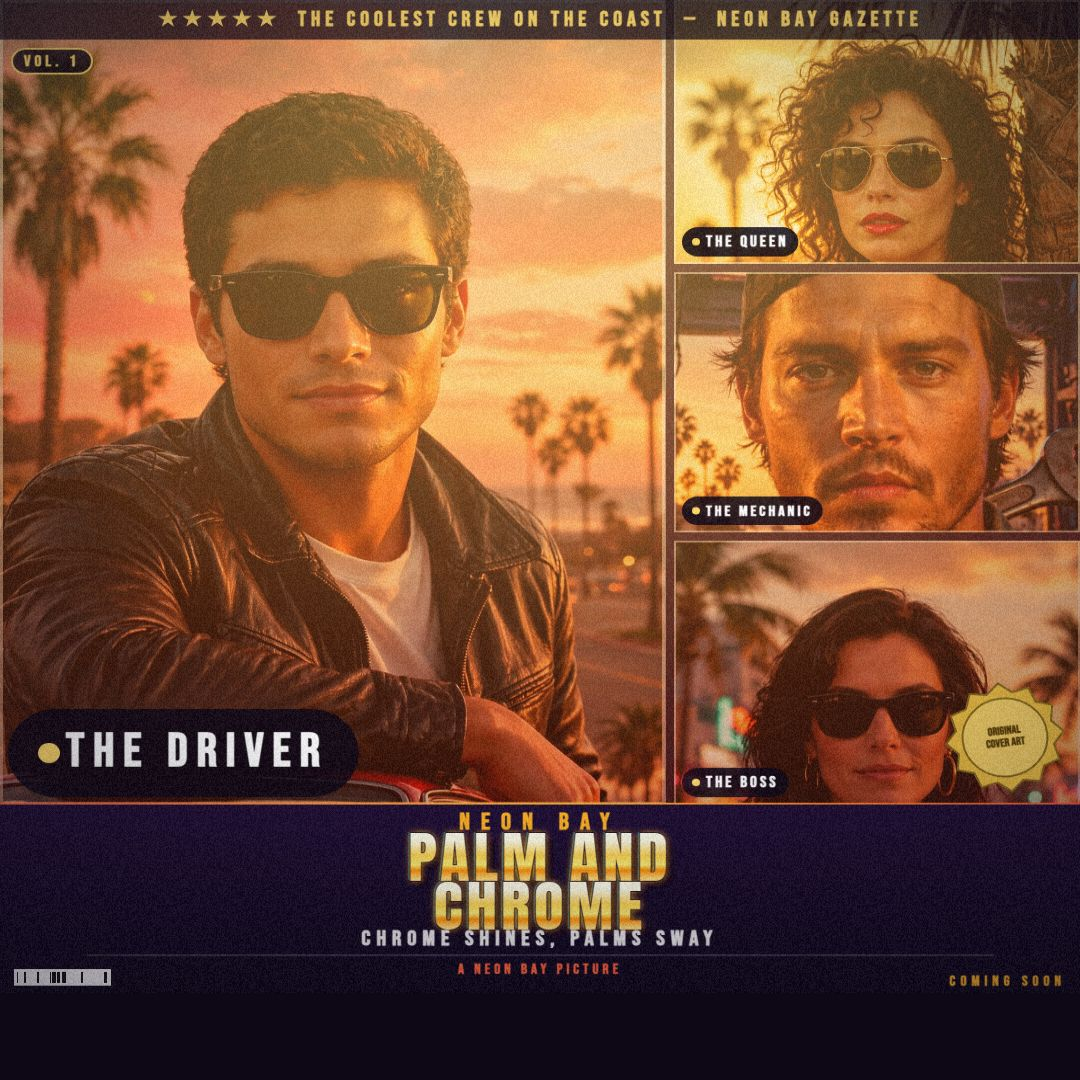
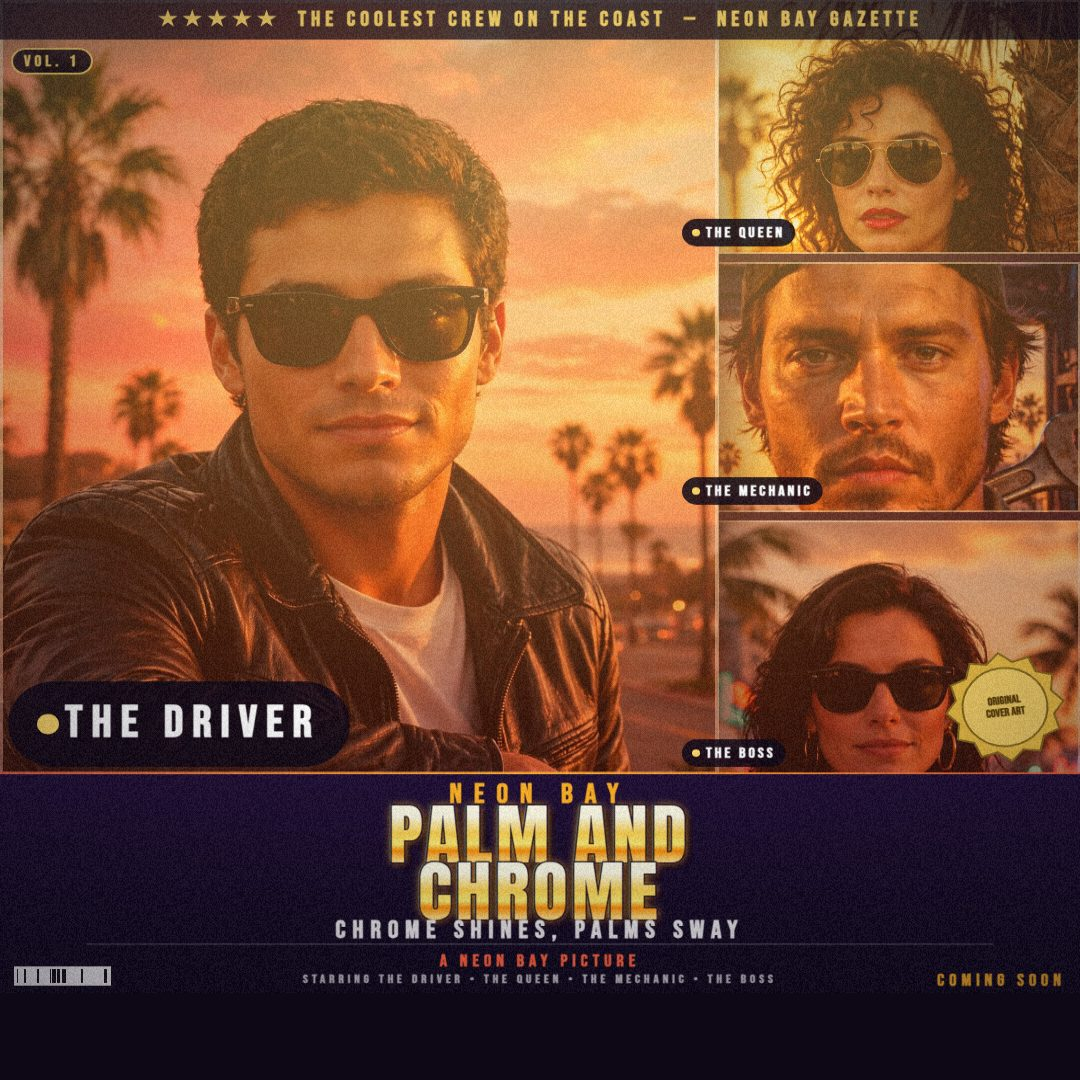
Neon Bay Cover Studio round 6: face-centre cast crops, de-hazed sunset, calmer neon skin, credits line, pop-out hero

diff --git a/app/src/cover.js b/app/src/cover.js
@@ -26,6 +26,8 @@
 //     gradeStrength: number,          // 0.5 .. 1.5, multiplies grade alphas
 //     headline: string, tagline: string, footer: string, kicker: string,
 //     billing: string,                // billing strip, e.g. "A NEON BAY PRODUCTION"
+//     credits: string,                // credits line under the billing strip (round 6)
+//     popout: boolean,                // hero3: hero card breaks the grid (round 6)
 //     letteringStyle: 'single' | 'stacked' | 'chrome',
 //     skylineFrame: boolean,          // sunset skyline strip under the photos
 //     halftone: boolean,              // print-dot texture over the photos
@@ -64,12 +66,38 @@ export const SAMPLE_FOCUS = {
   boulevard: { fx: 0.5, fy: 0.3 },
 };
 
+// Round 6: face-centre focus for the WIDE Cast panels only. A Cast panel
+// is ~1.8:1, so it shows only a ~0.29-tall slice of a tall portrait —
+// SAMPLE_FOCUS (tuned for the tall hero/poster windows, where hair AND
+// chin fit) cuts faces there: measured on the actual portraits
+// (eyes/chin in fy: driver 0.237/0.355, boss 0.516/0.730, mechanic
+// 0.305/0.495, queen 0.345/0.500, pier 0.178/0.365, boulevard
+// 0.210/0.298), the round-5 cast framing cut the driver's mouth and
+// chin entirely and nicked the boss's and mechanic's chins. These fy
+// values sit on the face centre (eyes->chin midpoint, nudged up a touch
+// so the chin keeps headroom from the panel bottom and the role-tag
+// chip): the hair crops at the panel edge — normal poster cropping —
+// and eyes->chin stays whole in every cast panel.
+export const CAST_FOCUS = {
+  driver: { fx: 0.5, fy: 0.28 },
+  boss: { fx: 0.5, fy: 0.58 },
+  mechanic: { fx: 0.5, fy: 0.37 },
+  queen: { fx: 0.5, fy: 0.4 },
+  pier: { fx: 0.5, fy: 0.3 },
+  boulevard: { fx: 0.5, fy: 0.27 },
+};
+
 // Height of the headline block, as a fraction of the cover height. Round 5
 // raises both: the panel band 0.15 -> 0.19 so the billing strip, barcode
 // and COMING SOON fit without crowding, and the Movie Poster band 0.21 ->
 // 0.36 so the headline block itself (kicker + two-line chrome headline +
 // tagline + billing + footer) occupies ~36% of the poster height.
-const BAND = 0.19;
+// Round 6 raises the panel band 0.19 -> 0.22: the round-5 band left a
+// wide dark gap between the billing strip and the barcode/COMING SOON
+// row (worst on the 16:9 poster), and the extra ~3% buys a credits line
+// under the billing strip without crowding the tagline. The poster band
+// stays 0.36 — it already reads full.
+const BAND = 0.22;
 const POSTER_BAND = 0.36;
 
 // Height of the sunset skyline strip, as a fraction of the cover height.
@@ -214,9 +242,13 @@ export function panelDefaults(layout) {
 export function castPanelDefaults(layout, cast) {
   const base = panelDefaults(layout);
   const names = Array.isArray(cast) && cast.length > 0 ? cast : CAST_SAMPLES;
+  // Round 6: the Cast grid's wide panels frame on the face centre
+  // (CAST_FOCUS); every other layout keeps the tall-window framing
+  // (SAMPLE_FOCUS), which round 5 verified visually there.
+  const focusTable = layout === 'cast' ? CAST_FOCUS : SAMPLE_FOCUS;
   return base.map((slot, i) => {
     const name = names[i % names.length];
-    const focus = SAMPLE_FOCUS[name] ?? { fx: 0.5, fy: 0.3 };
+    const focus = focusTable[name] ?? { fx: 0.5, fy: 0.3 };
     return { photo: i % names.length, zoom: slot.zoom, fx: focus.fx, fy: focus.fy };
   });
 }
@@ -274,18 +306,22 @@ export function applyPosterPreset(state, name) {
 // ---------------------------------------------------------------------------
 const GRADE_DEFS = {
   sunset: {
+    // Round 6: the top veil/overlay stops are thinned (0.20->0.15,
+    // 0.22->0.19, 0.26->0.21) and the glow moves in from the corner
+    // (glowX 0.08->0.15) — round 5 left the top-left panel hazy orange
+    // and the glow pooled in the corner instead of reading as horizon.
     stops: [
-      [0, 255, 150, 60, 0.2],
-      [0.45, 255, 90, 90, 0.22],
+      [0, 255, 150, 60, 0.15],
+      [0.45, 255, 90, 90, 0.19],
       [0.8, 215, 40, 130, 0.24],
       [1, 70, 20, 110, 0.28],
     ],
     overlay: [
-      [0, 255, 130, 60, 0.26],
+      [0, 255, 130, 60, 0.21],
       [1, 110, 30, 150, 0.26],
     ],
     glow: [255, 190, 100],
-    glowX: 0.08,
+    glowX: 0.15,
     glowY: 0.45,
     accentA: '#ff2e88', // magenta
     accentB: '#22d3ee', // cyan
@@ -293,14 +329,19 @@ const GRADE_DEFS = {
     sat: 1.22,
   },
   neon: {
+    // Round 6: the magenta end is thinned (veil bottom 0.26->0.18, mid
+    // 0.20->0.16; overlay bottom 0.27->0.20) and saturation eased
+    // 1.28->1.22 — round 5 left the queen's skin pink-magenta in the
+    // portrait poster. The neon still reads (cyan top, magenta base),
+    // the skin just stops tinting.
     stops: [
       [0, 34, 211, 238, 0.16],
-      [0.5, 120, 60, 255, 0.2],
-      [1, 255, 46, 136, 0.26],
+      [0.5, 120, 60, 255, 0.16],
+      [1, 255, 46, 136, 0.18],
     ],
     overlay: [
       [0, 40, 200, 230, 0.19],
-      [1, 255, 50, 140, 0.27],
+      [1, 255, 50, 140, 0.2],
     ],
     glow: [255, 80, 180],
     glowX: 0.84,
@@ -308,7 +349,7 @@ const GRADE_DEFS = {
     accentA: '#22d3ee',
     accentB: '#ff2e88',
     vignette: 0.6,
-    sat: 1.28,
+    sat: 1.22,
   },
   golden: {
     stops: [
@@ -401,7 +442,7 @@ function applyGrade(ctx, w, photoH, grade, strength) {
   const gy = photoH * grade.glowY;
   const glow = ctx.createRadialGradient(gx, gy, 0, gx, gy, Math.max(w, photoH) * 0.55);
   const [gr, gg, gb] = grade.glow;
-  glow.addColorStop(0, stopColor(gr, gg, gb, 0.35, strength));
+  glow.addColorStop(0, stopColor(gr, gg, gb, 0.3, strength));
   glow.addColorStop(1, stopColor(gr, gg, gb, 0, strength));
   ctx.fillStyle = glow;
   ctx.fillRect(0, 0, w, photoH);
@@ -660,6 +701,25 @@ function drawEmptyPanel(ctx, panel, label) {
   ctx.restore();
 }
 
+/** Pop-out hero (round 6): the hero photo re-drawn in a rect that
+ * overhangs its panel to the right, on a drop shadow, so the card reads
+ * as lifted in front of its neighbours. The photo itself is re-fit to
+ * the wider rect (same uniform-scale rule), and its own white frame
+ * stroke sells the card edge. */
+function drawPopoutHero(ctx, img, panel, slot, sat) {
+  const overhang = Math.max(14, Math.round(Math.min(panel.w, panel.h) * 0.08));
+  const big = { x: panel.x, y: panel.y, w: panel.w + overhang, h: panel.h };
+  ctx.save();
+  ctx.shadowColor = 'rgba(5, 2, 12, 0.65)';
+  ctx.shadowBlur = Math.max(10, Math.round(overhang * 0.8));
+  ctx.shadowOffsetX = Math.round(overhang * 0.35);
+  ctx.shadowOffsetY = Math.round(overhang * 0.4);
+  ctx.fillStyle = '#160a24';
+  ctx.fillRect(big.x, big.y, big.w, big.h);
+  ctx.restore();
+  drawPhotoInPanel(ctx, img, big, slot.zoom, slot.fx, slot.fy, sat);
+}
+
 // ---------------------------------------------------------------------------
 // Lettering: condensed headline, white fill, black outline, magenta/cyan
 // offset shadows, a soft neon glow. Round 3 adds the Stacked style: the
@@ -897,10 +957,10 @@ function drawTagline(ctx, text, bandY, bandH, width, yFrac) {
 }
 
 /** The billing strip: small spaced caps between two hairline rules. */
-function drawBillingStrip(ctx, text, bandY, bandH, width, accent) {
+function drawBillingStrip(ctx, text, bandY, bandH, width, accent, yFrac = 0.88) {
   const clean = (text || '').trim().toUpperCase();
   if (!clean) return;
-  const y = bandY + bandH * 0.88;
+  const y = bandY + bandH * yFrac;
   const size = fitCapsLine(ctx, clean, width * 0.84, Math.max(11, Math.round(bandH * 0.075)));
   ctx.save();
   ctx.strokeStyle = 'rgba(255, 255, 255, 0.35)';
@@ -919,6 +979,37 @@ function drawBillingStrip(ctx, text, bandY, bandH, width, accent) {
   ctx.textAlign = 'center';
   ctx.textBaseline = 'middle';
   ctx.fillStyle = accent;
+  ctx.fillText(clean, width / 2, y);
+  ctx.restore();
+}
+
+// ---------------------------------------------------------------------------
+// Credits line (round 6): a second small-caps line under the billing
+// strip — cast credits on the panel posters, a production credit
+// otherwise. It fills the dark gap round 5 left between the billing
+// strip and the barcode/COMING SOON row. Panel layouts only: the Movie
+// Poster band is already full (kicker + two-line chrome headline +
+// tagline + billing + footer), and a centred line there would collide
+// with the barcode on the left and COMING SOON on the right.
+// ---------------------------------------------------------------------------
+function drawCreditsLine(ctx, text, bandY, bandH, width) {
+  const clean = (text || '').trim().toUpperCase();
+  if (!clean) return;
+  // 0.94 of the band: below the billing strip (0.86), above the footer
+  // row — centred, so it clears the barcode (left) and COMING SOON
+  // (right) at every export size.
+  const y = bandY + bandH * 0.94;
+  const size = fitCapsLine(ctx, clean, width * 0.84, Math.max(11, Math.round(bandH * 0.055)));
+  ctx.save();
+  ctx.font = `600 ${size}px "Bebas Neue", "Arial Narrow", sans-serif`;
+  try {
+    ctx.letterSpacing = `${Math.round(size * 0.28)}px`;
+  } catch {
+    // older canvas: letterSpacing is ignored, text still draws
+  }
+  ctx.textAlign = 'center';
+  ctx.textBaseline = 'middle';
+  ctx.fillStyle = 'rgba(255, 255, 255, 0.72)';
   ctx.fillText(clean, width / 2, y);
   ctx.restore();
 }
@@ -1135,9 +1226,23 @@ export function renderCover(canvas, state) {
     }
   }
 
+  // Round 6 pop-out hero (hero3 only, state.popout): the hero panel is
+  // redrawn last, breaking the grid — its photo overhangs the right-hand
+  // panels by one overhang and carries a drop shadow, so the hero reads
+  // as a card lifted in front of the poster instead of one more tile.
+  // It is a grid-break, not a true cut-out (that needs a segmentation
+  // mask, which a static offline app has no way to make): the figure
+  // stays inside its photo, the CARD breaks out. The role tags are drawn
+  // later (furniture pass), so no chip is ever covered, and the overhang
+  // never extends downward into the headline band.
+  if (state.popout && state.layout === 'hero3' && count > 0) {
+    const slot = state.panels[0] ?? { photo: 0, zoom: 1, fx: 0.5, fy: 0.5 };
+    const img = state.photos[slot.photo] ?? null;
+    if (img) drawPopoutHero(ctx, img, panels[0], slot, grade.sat);
+  }
+
   // Grade over the photo area: veil + overlay + sun glow.
   applyGrade(ctx, w, photoH, grade, strength);
-
   // Print-dot halftone over the photos, when the user asked for it.
   if (state.halftone) drawHalftoneTexture(ctx, w, photoH);
 
@@ -1178,7 +1283,10 @@ export function renderCover(canvas, state) {
   drawKicker(ctx, state.kicker, bandY, bandH, w, grade.accentA, isPoster);
   drawHeadline(ctx, state.headline, bandY, bandH, w, grade.accentA, grade.accentB, state.letteringStyle, isPoster);
   drawTagline(ctx, state.tagline, bandY, bandH, w, isPoster ? 0.78 : 0.72);
-  drawBillingStrip(ctx, state.billing, bandY, bandH, w, grade.accentB);
+  drawBillingStrip(ctx, state.billing, bandY, bandH, w, grade.accentB, isPoster ? 0.88 : 0.86);
+  // Round 6: the credits line fills the panel band's dark gap (see
+  // drawCreditsLine); the poster band skips it — it is already full.
+  if (!isPoster) drawCreditsLine(ctx, state.credits, bandY, bandH, w);
 
   // Footer row: barcode bottom-left, COMING SOON bottom-right.
   const barH = Math.max(12, Math.round(bandH * 0.09));

diff --git a/app/src/main.js b/app/src/main.js
@@ -28,6 +28,8 @@ const state = {
   footer: 'Neon Bay',
   kicker: 'Neon Bay', // small brand line above the headline (round 2)
   billing: 'A Neon Bay Production', // billing strip (round 3)
+  credits: 'Directed by Neon Bay • Shot on location • In Neon Vision', // credits line (round 6)
+  popout: false, // hero3: hero card breaks the grid (round 6)
   letteringStyle: 'chrome', // 'single' | 'stacked' | 'chrome' (round 5: chrome default)
   skylineFrame: true, // sunset skyline strip under the photos (round 3)
   halftone: false, // print-dot texture over the photos (round 3)
@@ -139,6 +141,7 @@ function syncAllControls() {
   $('headline').value = state.headline;
   $('tagline').value = state.tagline;
   $('billing').value = state.billing;
+  $('popout').checked = state.popout;
   $('cast-tags').value = state.castTags.join(', ');
   syncPanelControls();
 }
@@ -265,6 +268,10 @@ $('tagline').addEventListener('input', (e) => {
 });
 $('billing').addEventListener('input', (e) => {
   state.billing = e.target.value;
+  redraw();
+});
+$('popout').addEventListener('change', (e) => {
+  state.popout = e.target.checked;
   redraw();
 });
 $('cast-tags').addEventListener('input', (e) => {

diff --git a/app/src/shots.js b/app/src/shots.js
@@ -11,7 +11,8 @@
 // ?cast=driver,boss,mechanic,queen,pier,boulevard (sample per slot, in
 // order — the panels are framed on each sample's face), ?tags=THE DRIVER|…
 // (role tag per panel, | separated), ?quote=…, ?quotesource=…, ?vol=…,
-// ?kicker=….
+// ?kicker=…, ?credits=… (credits line under the billing strip),
+// ?popout=0|1 (hero3: hero card breaks the frame).
 // window.__shotReady is set once the scene has painted with its display
 // fonts loaded.
 import {
@@ -114,6 +115,13 @@ export async function runShot(shot, query, api) {
   if (halftone === '0') state.halftone = false;
   const billing = query.get('billing');
   if (billing !== null) state.billing = billing;
+  // Round 6 scene switches: the credits line under the billing strip,
+  // and the pop-out hero for the hero3 layout.
+  const credits = query.get('credits');
+  if (credits !== null) state.credits = credits;
+  const popout = query.get('popout');
+  if (popout === '1') state.popout = true;
+  if (popout === '0') state.popout = false;
   state.headline = query.get('caption') ?? 'Sunset Heist';
   const tagline = query.get('tagline');
   if (tagline !== null) state.tagline = tagline;

diff --git a/app/index.html b/app/index.html
@@ -92,6 +92,7 @@
           <option value="stacked">Stacked (two lines)</option>
         </select>
       </label>
+      <label class="check"><input id="popout" type="checkbox"> Pop-out hero (hero card breaks the frame)</label>
       <label>Preview size
         <select id="size">
           <option value="1080x1080">Square 1080 &times; 1080</option>
